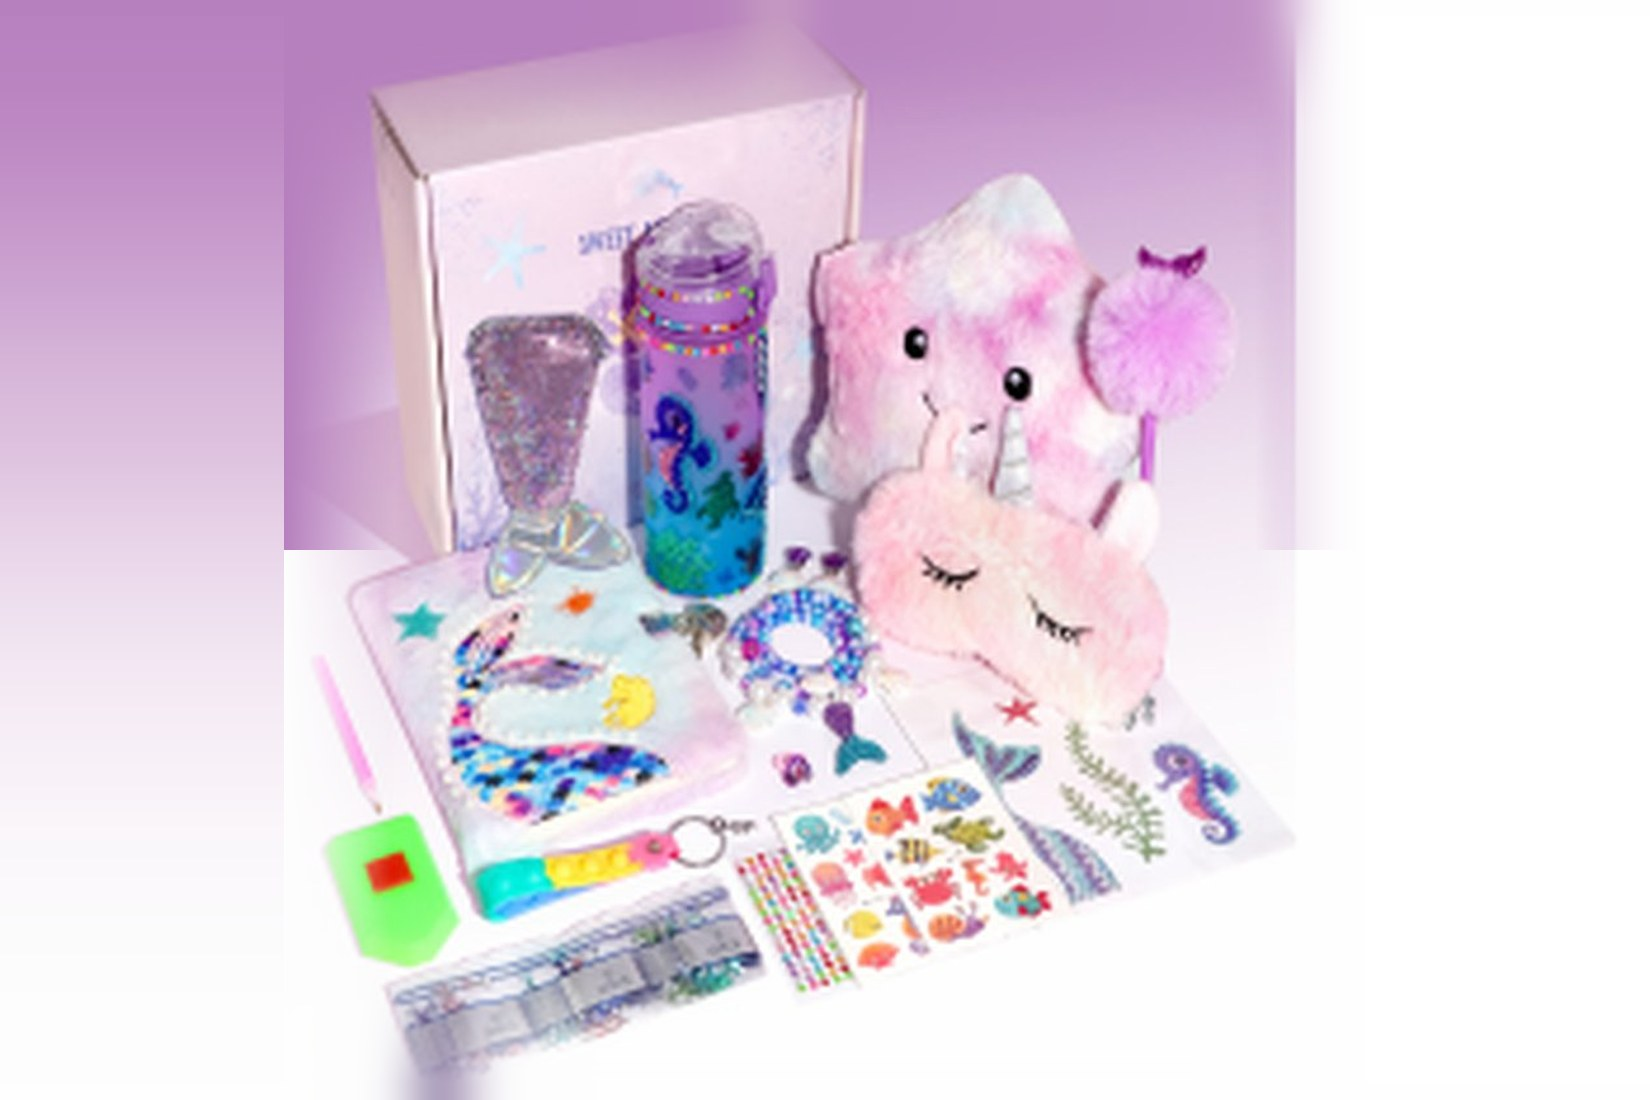
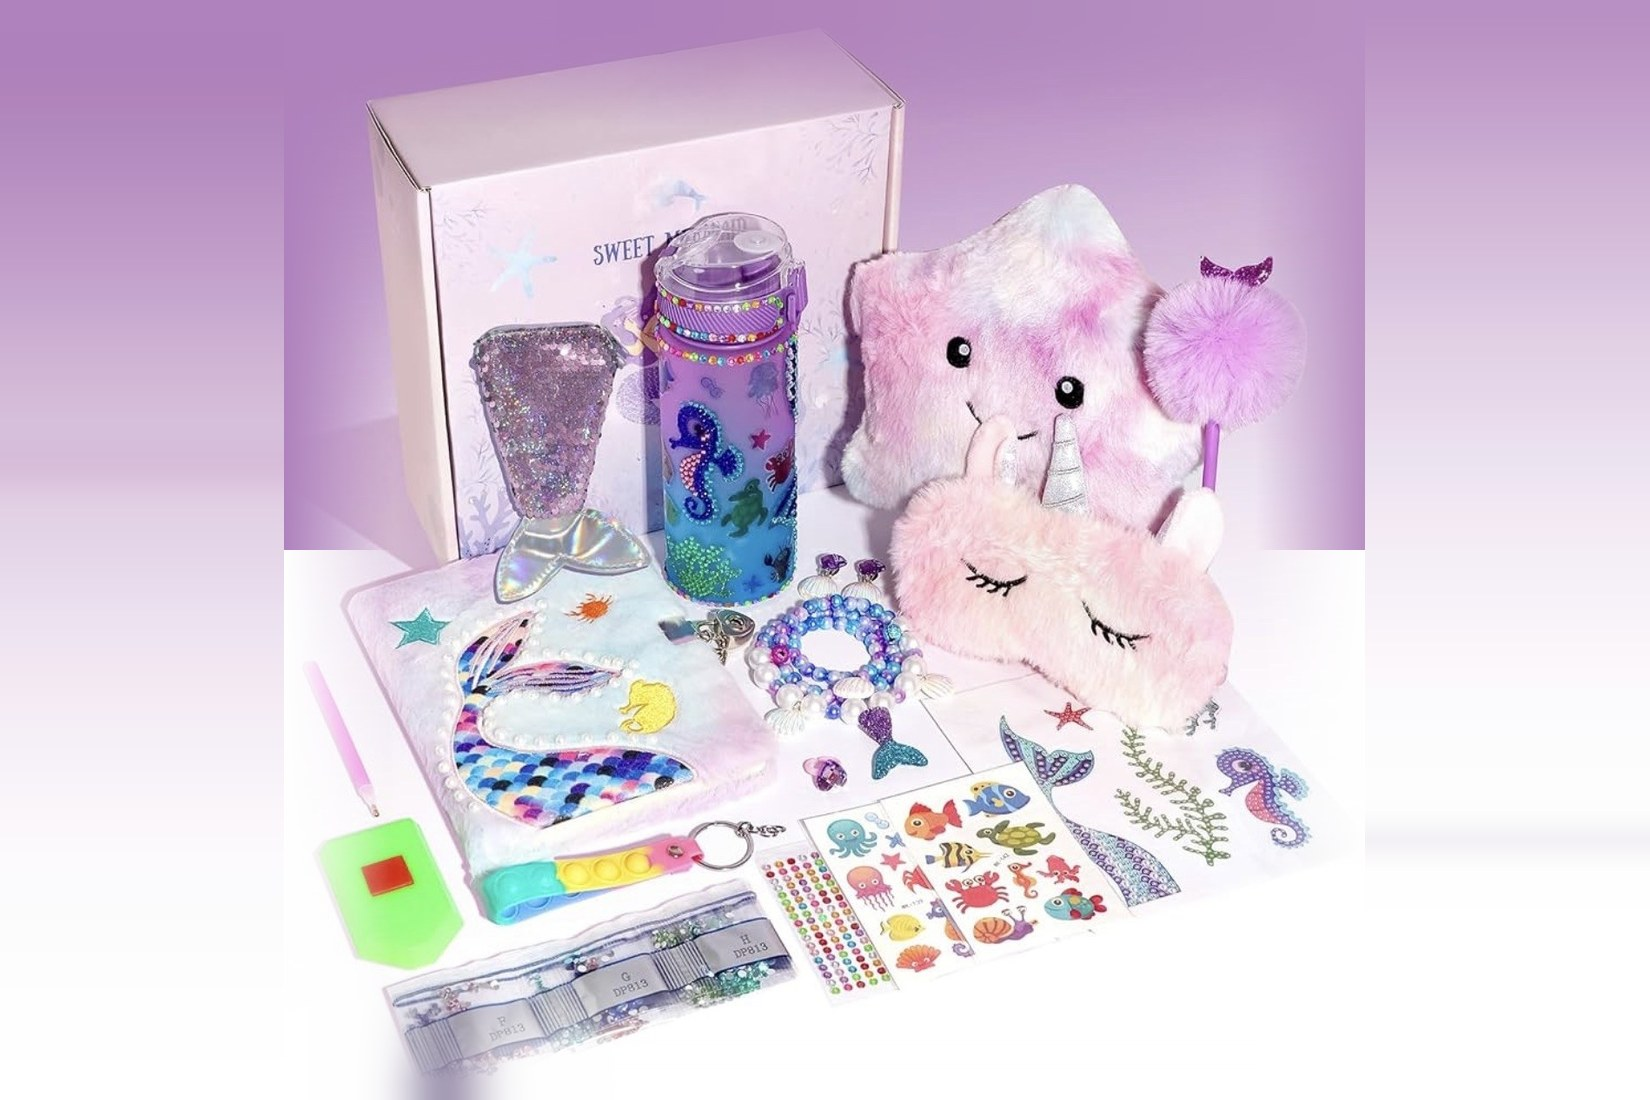
mermaid photos

diff --git a/lib/products.ts b/lib/products.ts
@@ -914,21 +914,26 @@ export const allProducts: Product[] = [
     description:
       "An under-the-sea treasure box for little mermaids: sparkly accessories, a glowing star cushion and a craft kit to keep busy hands happy for hours.",
     details: [
-      "600ml water bottle",
-      "Lockable notebook with keys",
-      "LED light-up star cushion",
-      "Sleep mask",
-      "Mermaid tail sequin bag",
-      "Pom pom pen",
-      "Diamond and sea-life stickers",
-      "DIY diamond painting craft kit",
-      "Shell ear clips, ring, necklace and bracelet",
-      "Presented in a luxury gift box",
+      "600ml rhinestone-decorated water bottle with sea-life design",
+      "Plush mermaid-tail lockable notebook with keys",
+      "LED light-up plush star cushion",
+      "Plush unicorn sleep mask",
+      "Sequin mermaid-tail crossbody bag",
+      "Pom pom pen with mermaid tail",
+      "Shell ear clips, heart ring, pearl necklace and bracelet with mermaid-tail charm",
+      "Pop-it fidget keychain",
+      "DIY diamond painting craft kit, plus sea-life and rhinestone stickers",
+      "Presented in a \u201cSweet Mermaid\u201d gift box",
       "Perfect for: girls' birthdays, Christmas, sleepovers, or a mermaid-mad little one",
     ],
     images: [
       "/images/mermaid-magic/mermaid-magic-cover.jpg",
       "/images/mermaid-magic/mermaid-magic-01.jpg",
+      "/images/mermaid-magic/mermaid-magic-02.jpg",
+      "/images/mermaid-magic/mermaid-magic-03.jpg",
+      "/images/mermaid-magic/mermaid-magic-04.jpg",
+      "/images/mermaid-magic/mermaid-magic-05.jpg",
+      "/images/mermaid-magic/mermaid-magic-06.jpg",
     ],
   },
   {
